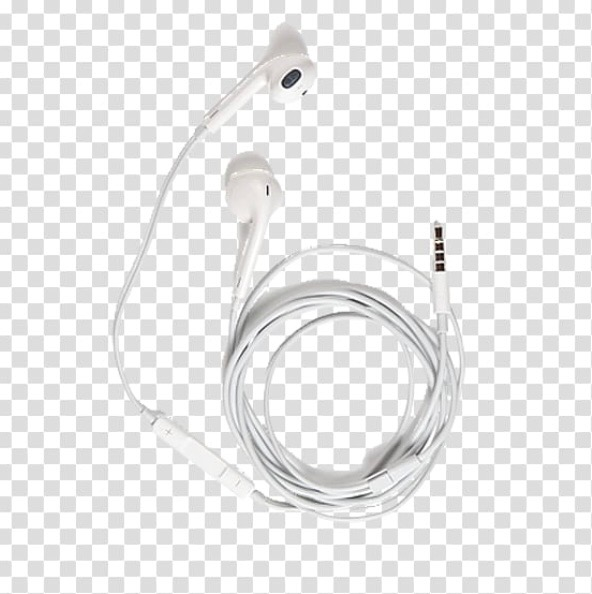
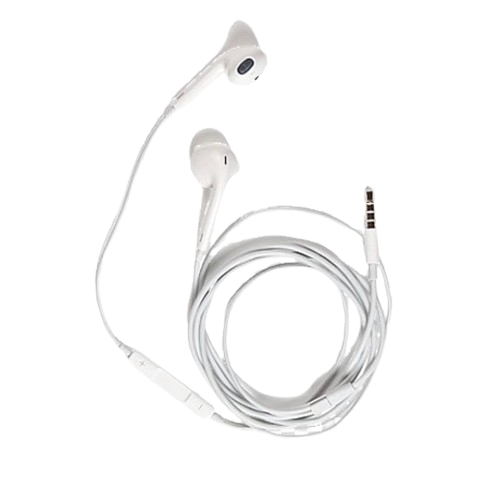
Earphones: transparent bg, move to top-left, make bigger

diff --git a/index.html b/index.html
@@ -652,7 +652,7 @@ footer { background: var(--ink); display: flex; align-items: center; justify-con
 <section id="contact" class="section">
   <div class="section-inner">
     <img src="images/rhode-lip-gloss.png" alt="Rhode Lip Gloss" style="width:160px;position:absolute;right:6%;top:15%;transform:rotate(20deg);">
-    <img src="images/earphones.png" alt="Earphones" style="width:200px;position:absolute;left:4%;bottom:5%;transform:rotate(-15deg);mix-blend-mode:multiply;opacity:.9;">
+    <img src="images/earphones.png" alt="Earphones" style="width:260px;position:absolute;left:3%;top:5%;transform:rotate(-10deg);">
     <div class="eyebrow">Let's Connect</div>
     <h2 class="display">psst... your brand and i<br>would be the <em>cutest</em> collab.</h2>
     <p class="contact-lede">Sponsorships · Brand Deals · Gifted Collabs · Campus Events · UGC</p>
